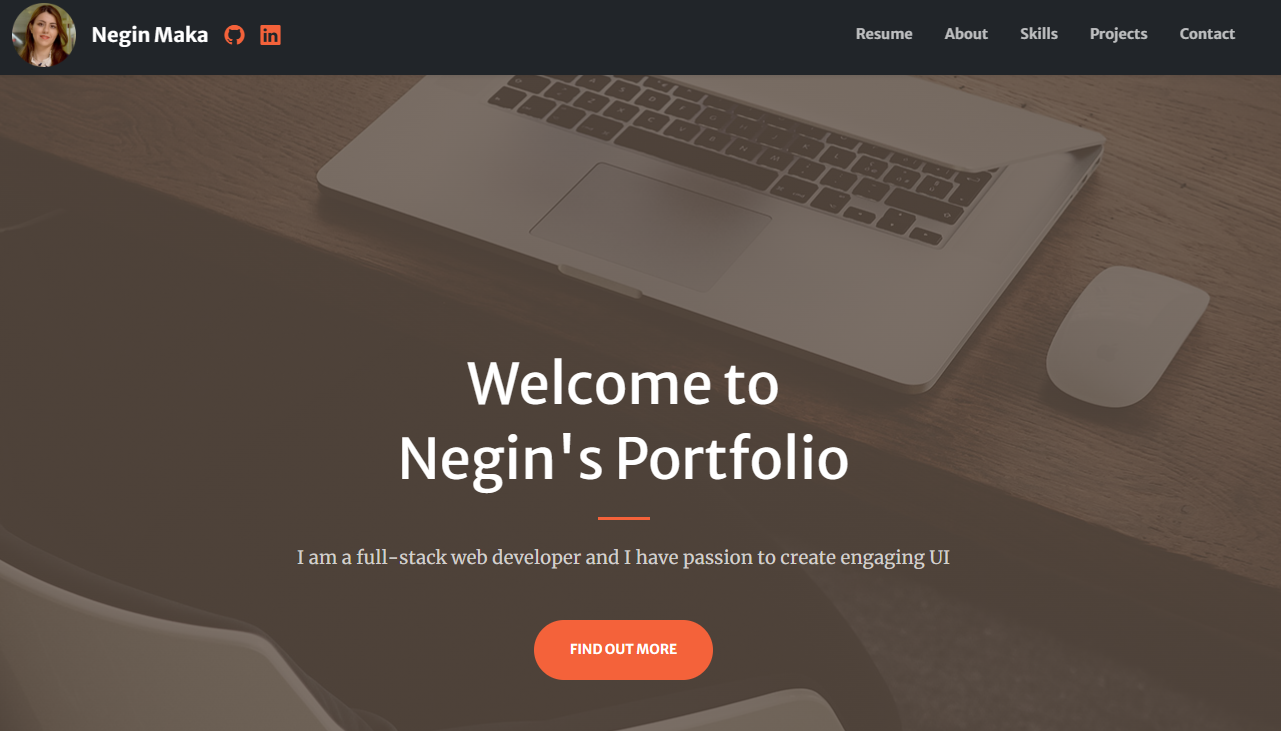
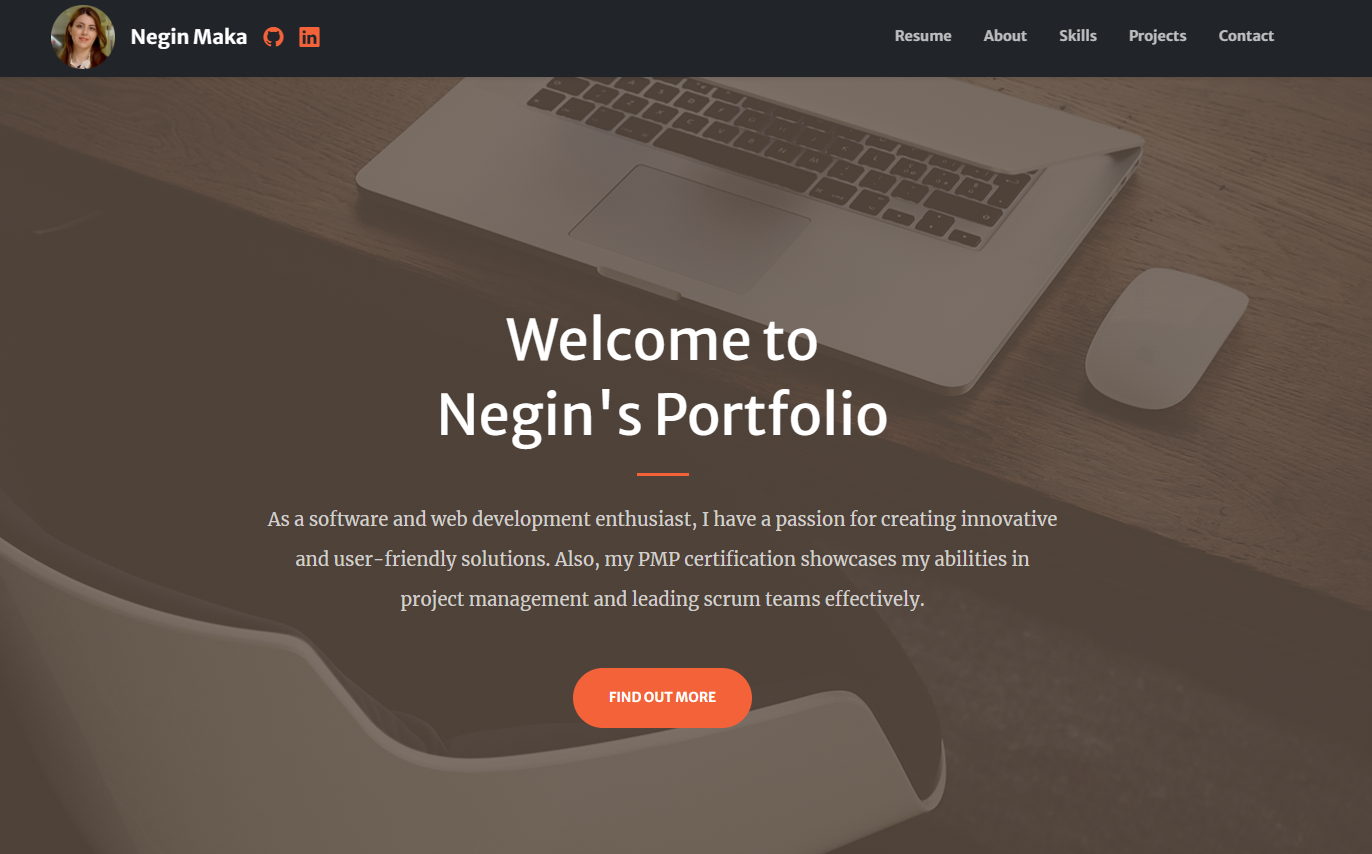
Updated assets and some contents

diff --git a/index.html b/index.html
@@ -75,8 +75,11 @@
                 <hr class="divider">
             </div>
             <div class="col-lg-8 align-self-baseline">
-                <p class="text-white-75 mb-5">I am a full-stack web developer and I have passion to create engaging
-                    UI </p>
+                <p class="text-white-75 mb-5" style="line-height: 2.5rem">
+                    As a software and web development enthusiast,
+                    I have a passion for creating innovative and user-friendly solutions.
+                    Also, my PMP certification showcases my abilities in
+                    project management and leading scrum teams effectively.</p>
                 <a class="btn btn-primary btn-xl" href="#about">Find Out More</a>
             </div>
         </div>
@@ -93,9 +96,10 @@
                     interest is web development and I love combining the worlds of logic and creative design to make
                     eye-catching, accessible, and user-friendly websites and applications.</p>
                 <p class="text-white-75 mb-4"> I have discovered my passion for the world of web development and the
-                    beauty behind building useful websites like the one you will find in this portfolio. I am now
-                    looking for a junior dev position to finally kick start my career and learn among
-                    professionals. </p>
+                    beauty behind building useful websites like the one you will find in this portfolio.</p>
+                    <p class="text-white-75 mb-4">Despite not having any direct industry experience,
+                    I am eager to break into the IT field and willing to work hard to gain the necessary skills and knowledge.
+                    My determination and drive make me a strong candidate for a career in the tech industry.</p>
                 <a class="btn btn-light btn-xl" href="#services">Get Started!</a>
             </div>
         </div>
@@ -322,42 +326,27 @@
                 <div class="card-body mx-auto">
                     <h5 class="card-title">Project Highlights</h5>
                     <div class="card-text">
-                        <p>This is a project that utilizes the <strong>Flask framework</strong> in
-                            Python to create a web application.</p>
-                        <p>The application uses various modules such as <strong>secrets</strong>, <strong>flask</strong>,
-                            <strong>requests</strong>, <strong>PIL</strong>,
-                            <strong>flask_bootstrap</strong>, <strong>flask_login</strong>, and
-                            <strong>flask_sqlalchemy</strong> to handle various functionality
-                            such as authentication, image compression and database management.</p>
-                        <p>The application uses Okta for user authentication, and has tables for <strong>users</strong>
-                            and <strong>links</strong> to
-                            store user information and links respectively.</p>
-                        <p>The <strong>compress_image</strong> function is used to optimize the size of an uploaded
-                            image, while the
-                            <strong>format_links</strong> function is used to format the links associated with a </p>
-                        <p>The application also uses the bootstrap framework for styling.</strong>
-                            for different users.</p>
+                        <p>This is my <strong>portfolio website</strong>. The website features my profile picture, links to my
+                        social media profiles, and sections for my resume, about me, skills, and projects.</p>
+                        <p>It uses <strong>Bootstrap</strong> for the layout and design, and <strong>Google fonts</strong> for the typography.</p>
+                        <p>It also uses the <strong>SimpleLightbox plugin</strong> for the image gallery.
+
                     </div>
 
-                    <h5 class="card-title">Used Technologies</h5>
+                    <h5 class="card-title">Tools, Languages & Technologies</h5>
                     <div class="container">
                         <div class="row">
                             <div class="col col-md-5">
                                 <ul>
                                     <li>Python</li>
                                     <li>HTML & CSS</li>
-                                    <li>Flask</li>
-                                    <li>SQLite</li>
-                                    <li>SQLAlchemy</li>
+                                    <li>Bootstrap</li>
                                 </ul>
                             </div>
                             <div class="col col-md-5">
                                 <ul>
-                                    <li>Jinja2</li>
-                                    <li>RESTful API</li>
-                                    <li>Postman</li>
-                                    <li>Bootstrap</li>
-                                    <li>Selenium</li>
+                                    <li>SimpleLightbox</li>
+                                    <li>Jira</li>
                                 </ul>
                             </div>
                         </div>
